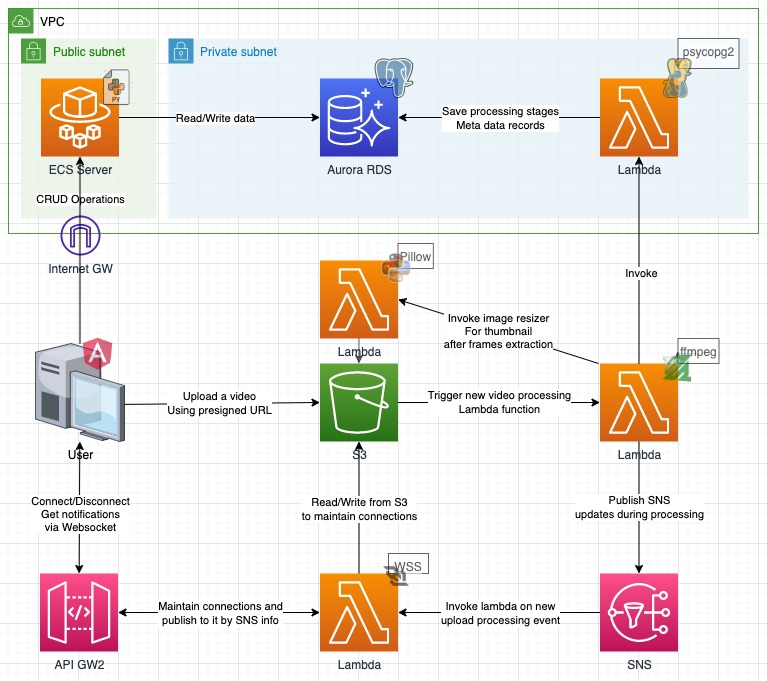
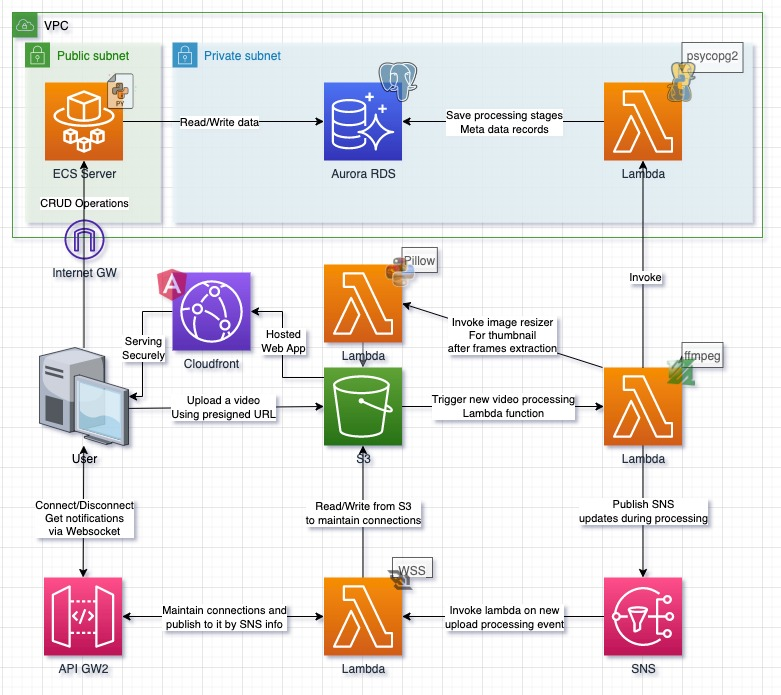
updated readme and diagram to include CF

Changed region(s): [[0.0, 0.0, 0.9896, 0.9868]]

diff --git a/README.md b/README.md
@@ -33,7 +33,11 @@ Part of a CS degree course <strong>(EASS)</strong> final project.
 
     https://aws.amazon.com/
 
-- <b>AWS Route53 Hosted zone /w Domain</b> - deployment step is going to provision an https loadbalancer which will rely on certificate, thus to create & approve this certificate automatically, first, a valid domain should be registered.
+- <b>AWS Route53 Hosted zone /w Domain</b> - deployment step includes:
+  - Certificate creation for Cloudfront and domain for frontend.
+  - Certificate creation for HTTPS connection to the Web server's Load balancer.
+
+  Thus, to create & validate this certificate automatically, first, a valid domain should be registered.
 
     Route53 Domain registration step-by-step guide (zone will be created automatically):
 
